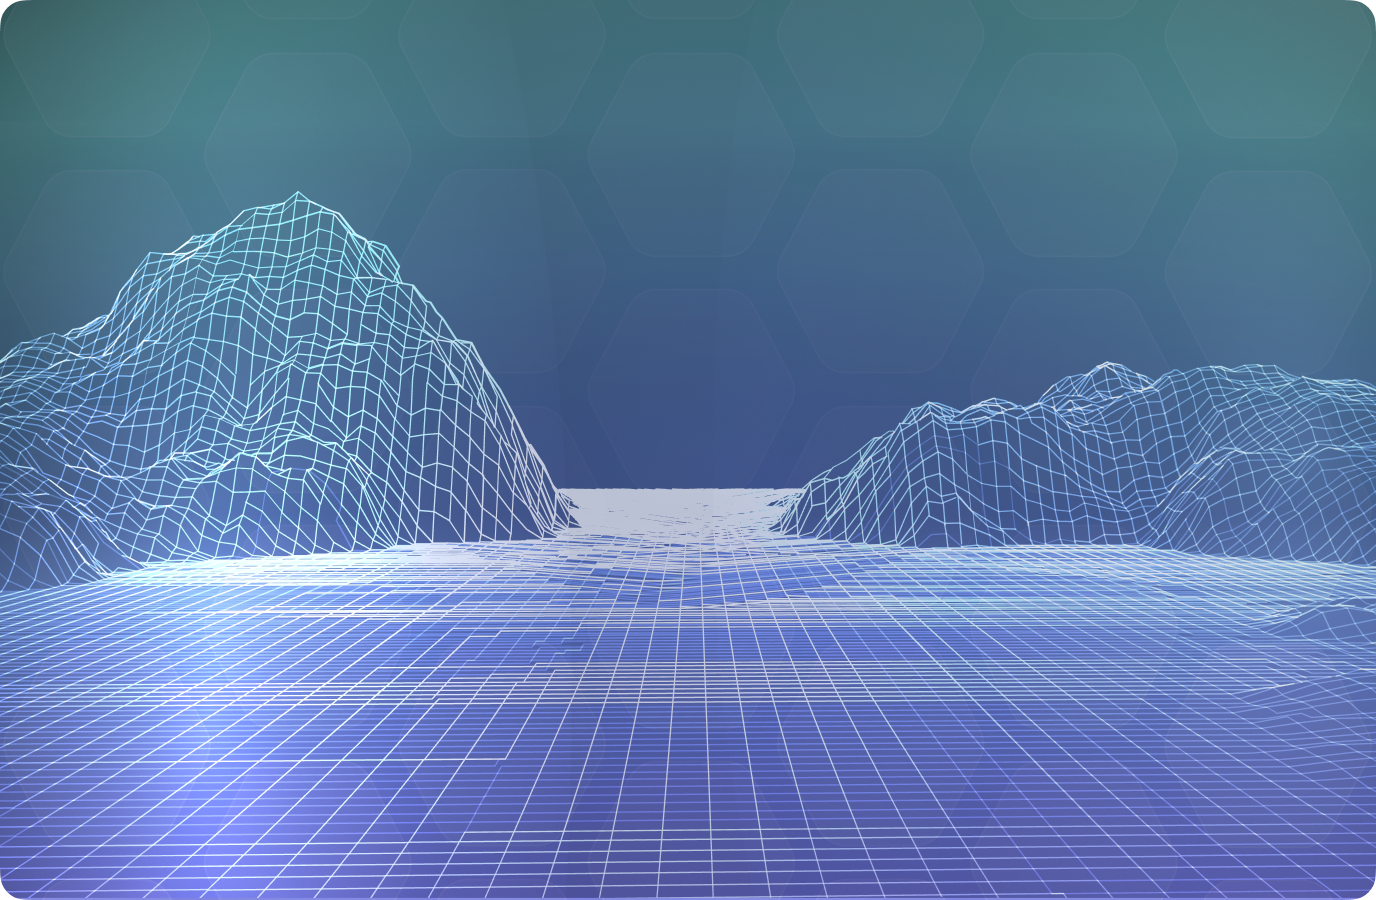
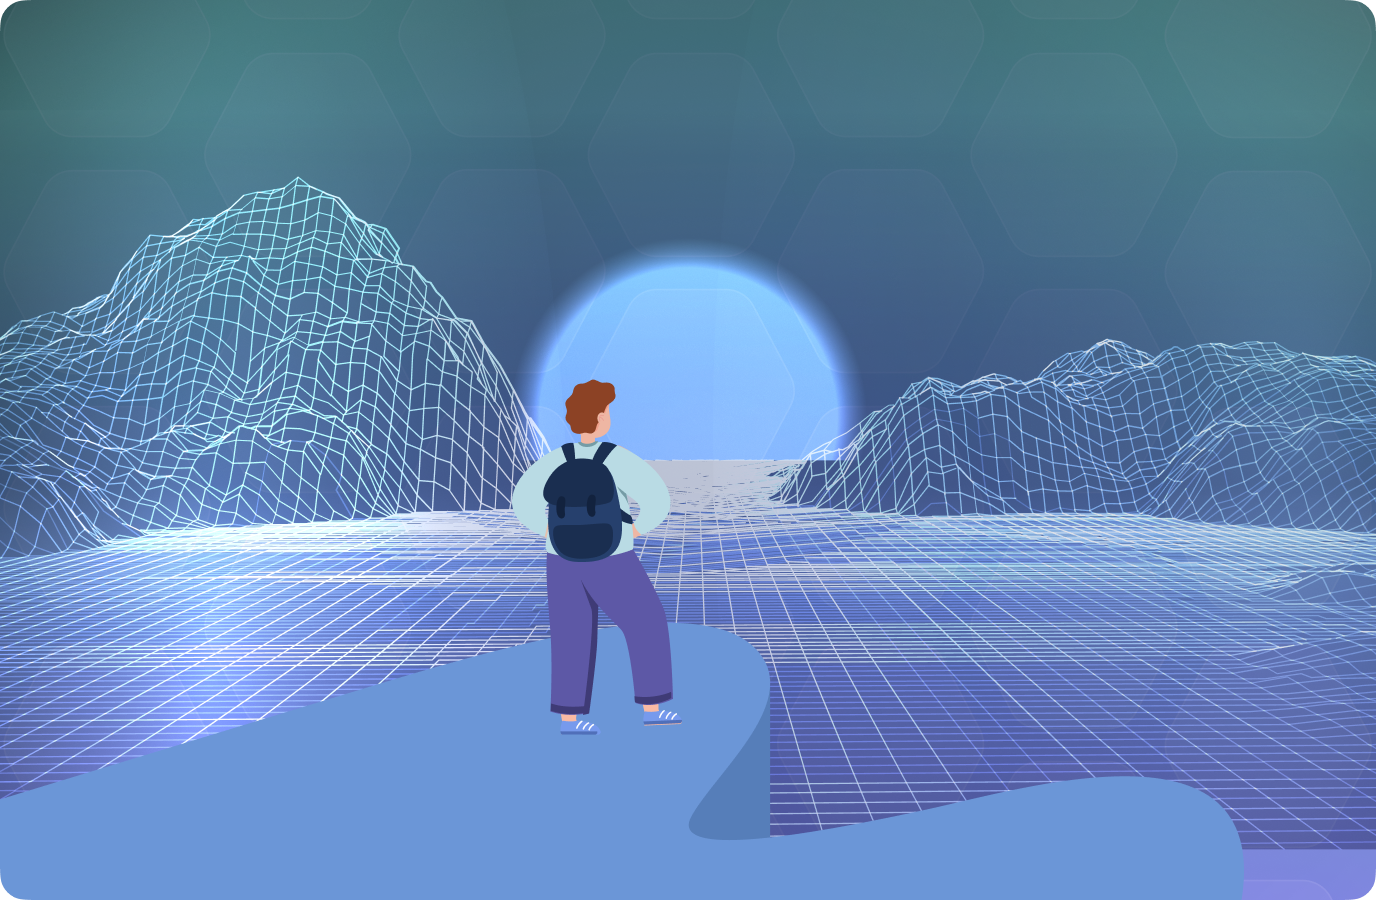
73 assets

diff --git a/src/modules/frame7_3/index.tsx b/src/modules/frame7_3/index.tsx
@@ -51,23 +51,9 @@ function Frame73Desktop({ timeline }: { timeline: GSAPTimeline }) {
 
   const bg = fit(Assets.get(ASSETS.bg73))
 
-  const sunTex = Assets.get(ASSETS.halfSun)
-  const sunW = sw * 0.48
-  const sunH = sunTex.height / sunTex.width * sunW
-  const sunX = (sw - sunW) / 2
-  const sunY = sh * 0.38 - sunH * 0.35
-
-  const boyTex = Assets.get(ASSETS.boyStanding)
-  const boyW = sw
-  const boyH = boyTex.height / boyTex.width * boyW
-  const boyX = (sw - boyW) / 2
-  const boyY = sh - boyH
-
   return (
     <pixiContainer>
       <pixiSprite texture={Assets.get(ASSETS.bg73)} width={bg.w} height={bg.h} x={bg.x} y={bg.y} alpha={p.bgAlpha} />
-      <pixiSprite blendMode="screen" texture={sunTex} width={sunW-230} height={sunH-120} x={sunX+130} y={sunY+4.4} alpha={p.bgAlpha} />
-      <pixiSprite texture={boyTex} width={boyW} height={boyH} x={boyX-20} y={boyY+150} alpha={p.bgAlpha} />
     </pixiContainer>
   )
 }

diff --git a/src/assets/manifest.ts b/src/assets/manifest.ts
@@ -41,7 +41,7 @@ import textPermission from "./desktop/text-permission.svg"
 import textRightTools from "./desktop/text-right-tools.svg"
 import bg73 from "./desktop/bg73.png"
 import halfSun from "./desktop/half-sun.png"
-import boyStanding from "./desktop/boy-standing.png"
+import boyStanding from "./desktop/boy-standing.svg"
 
 
 // mobile
